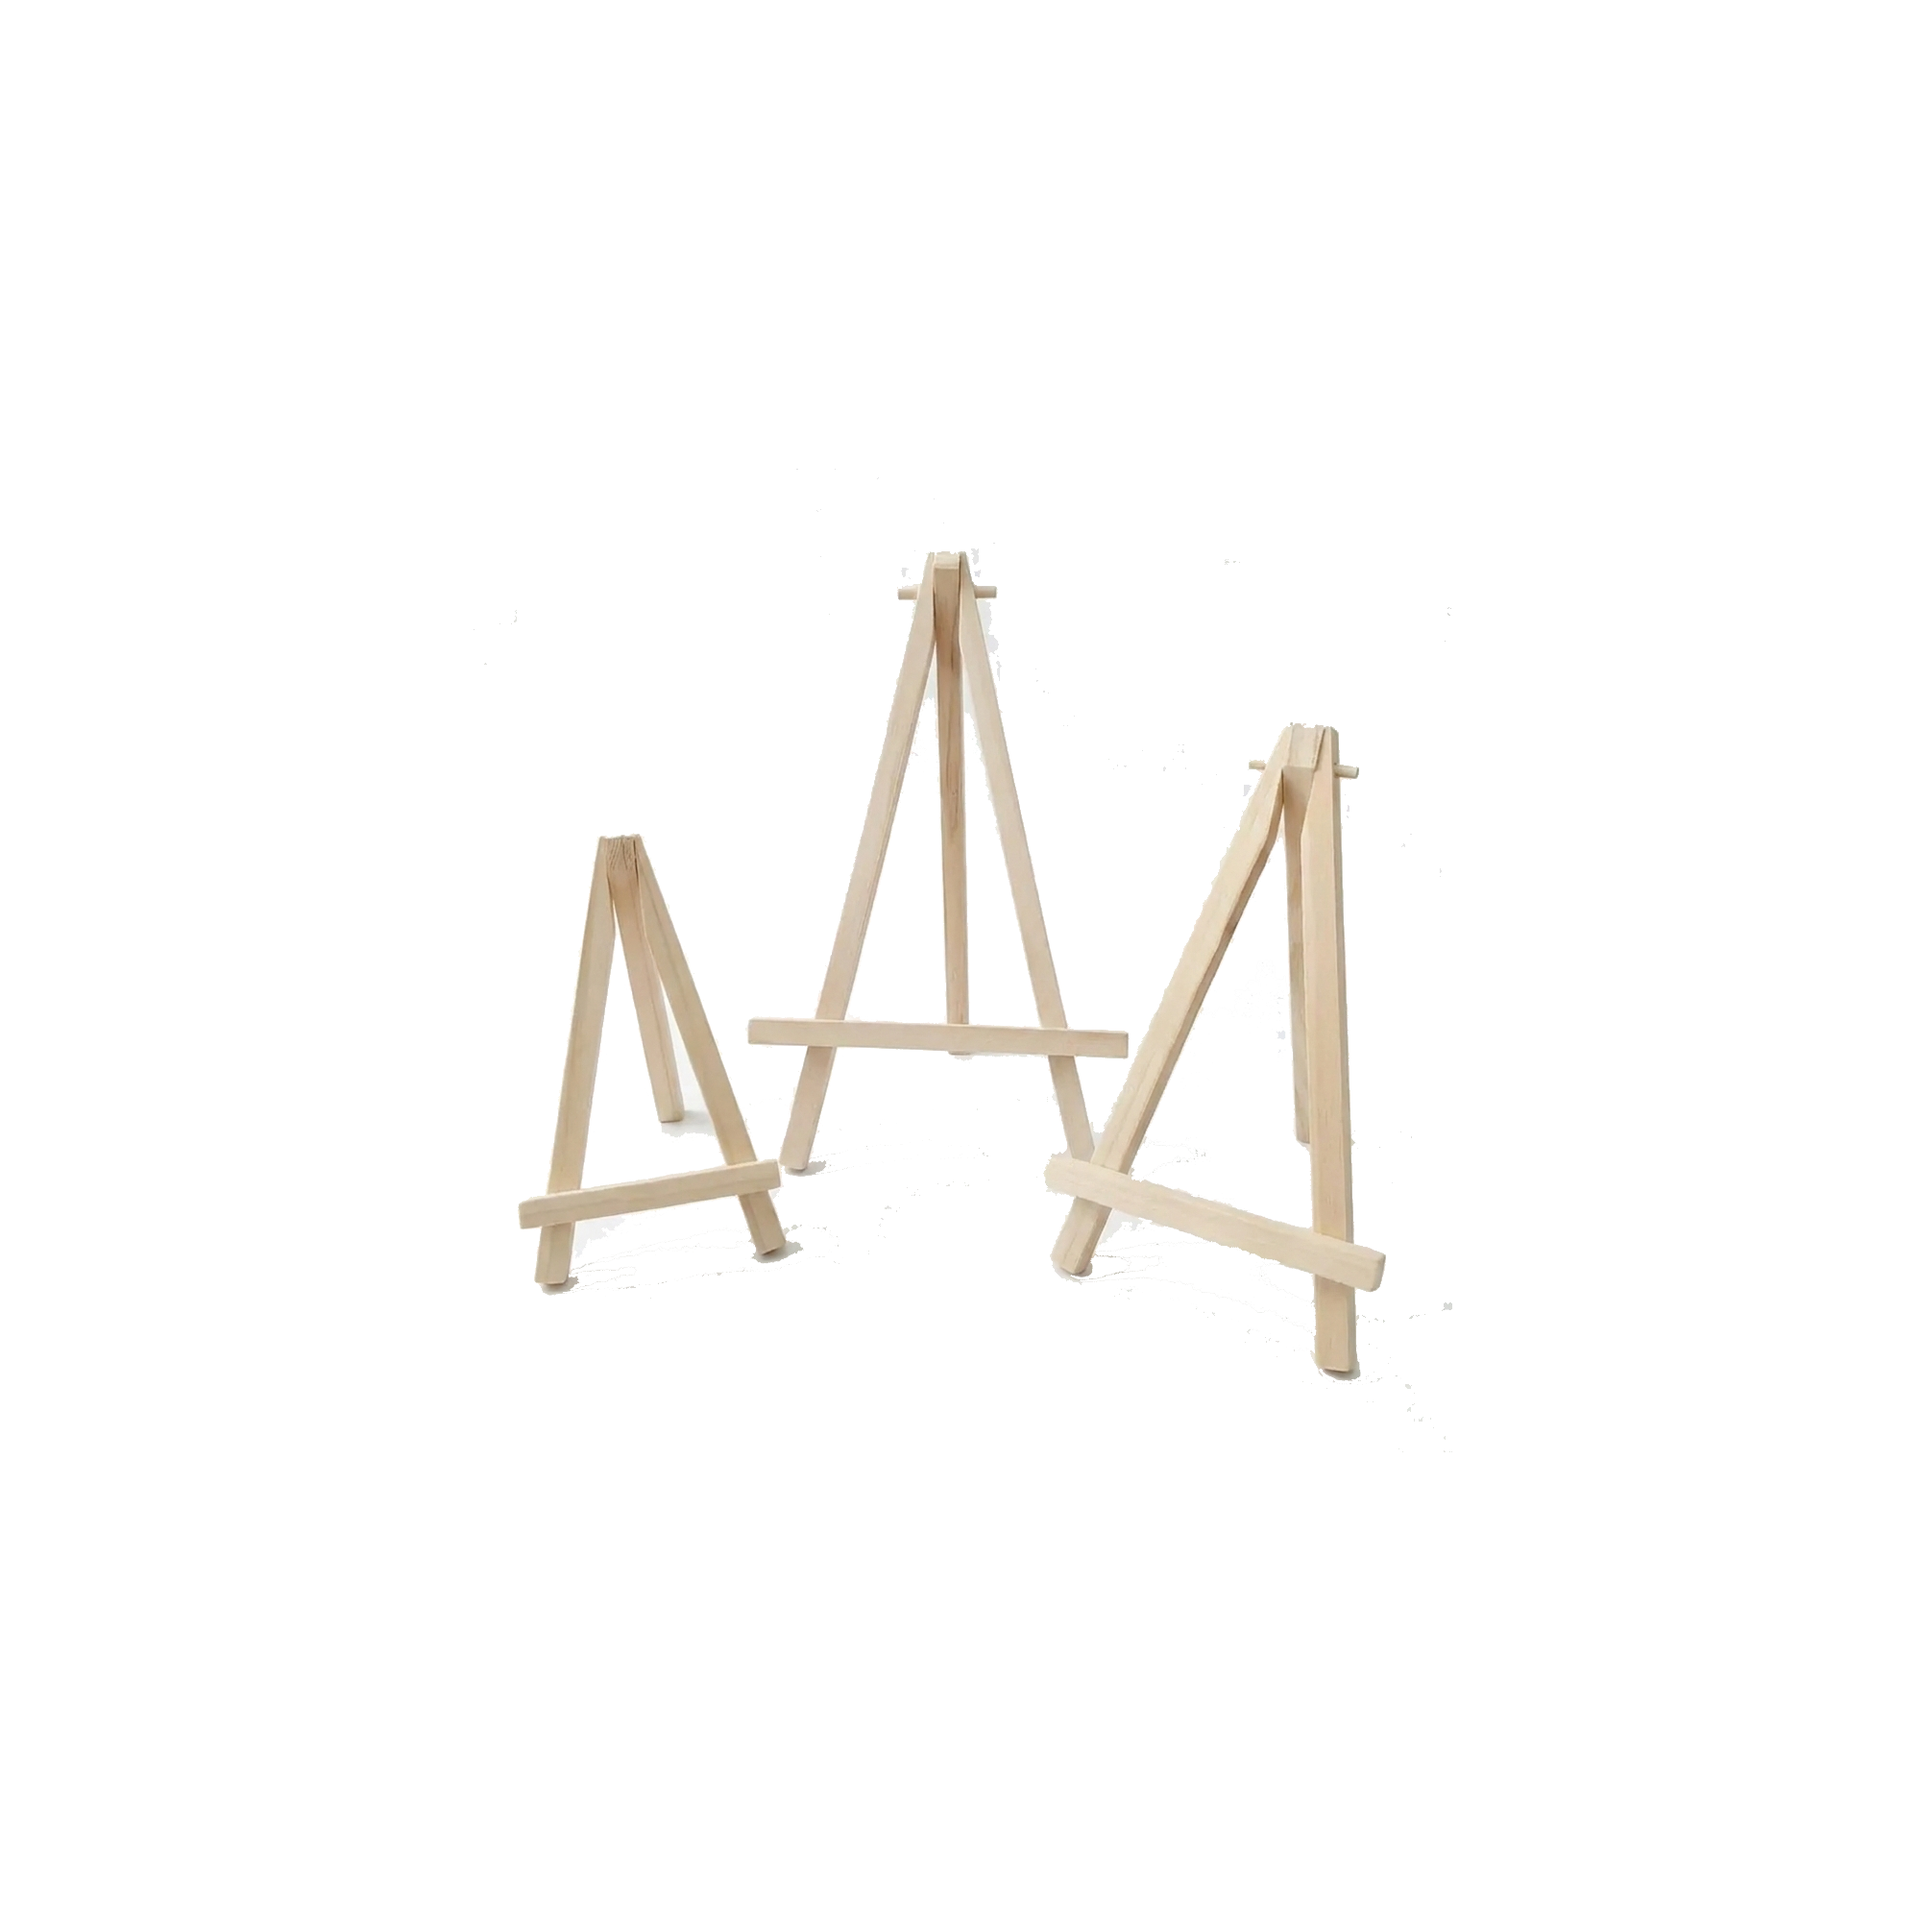
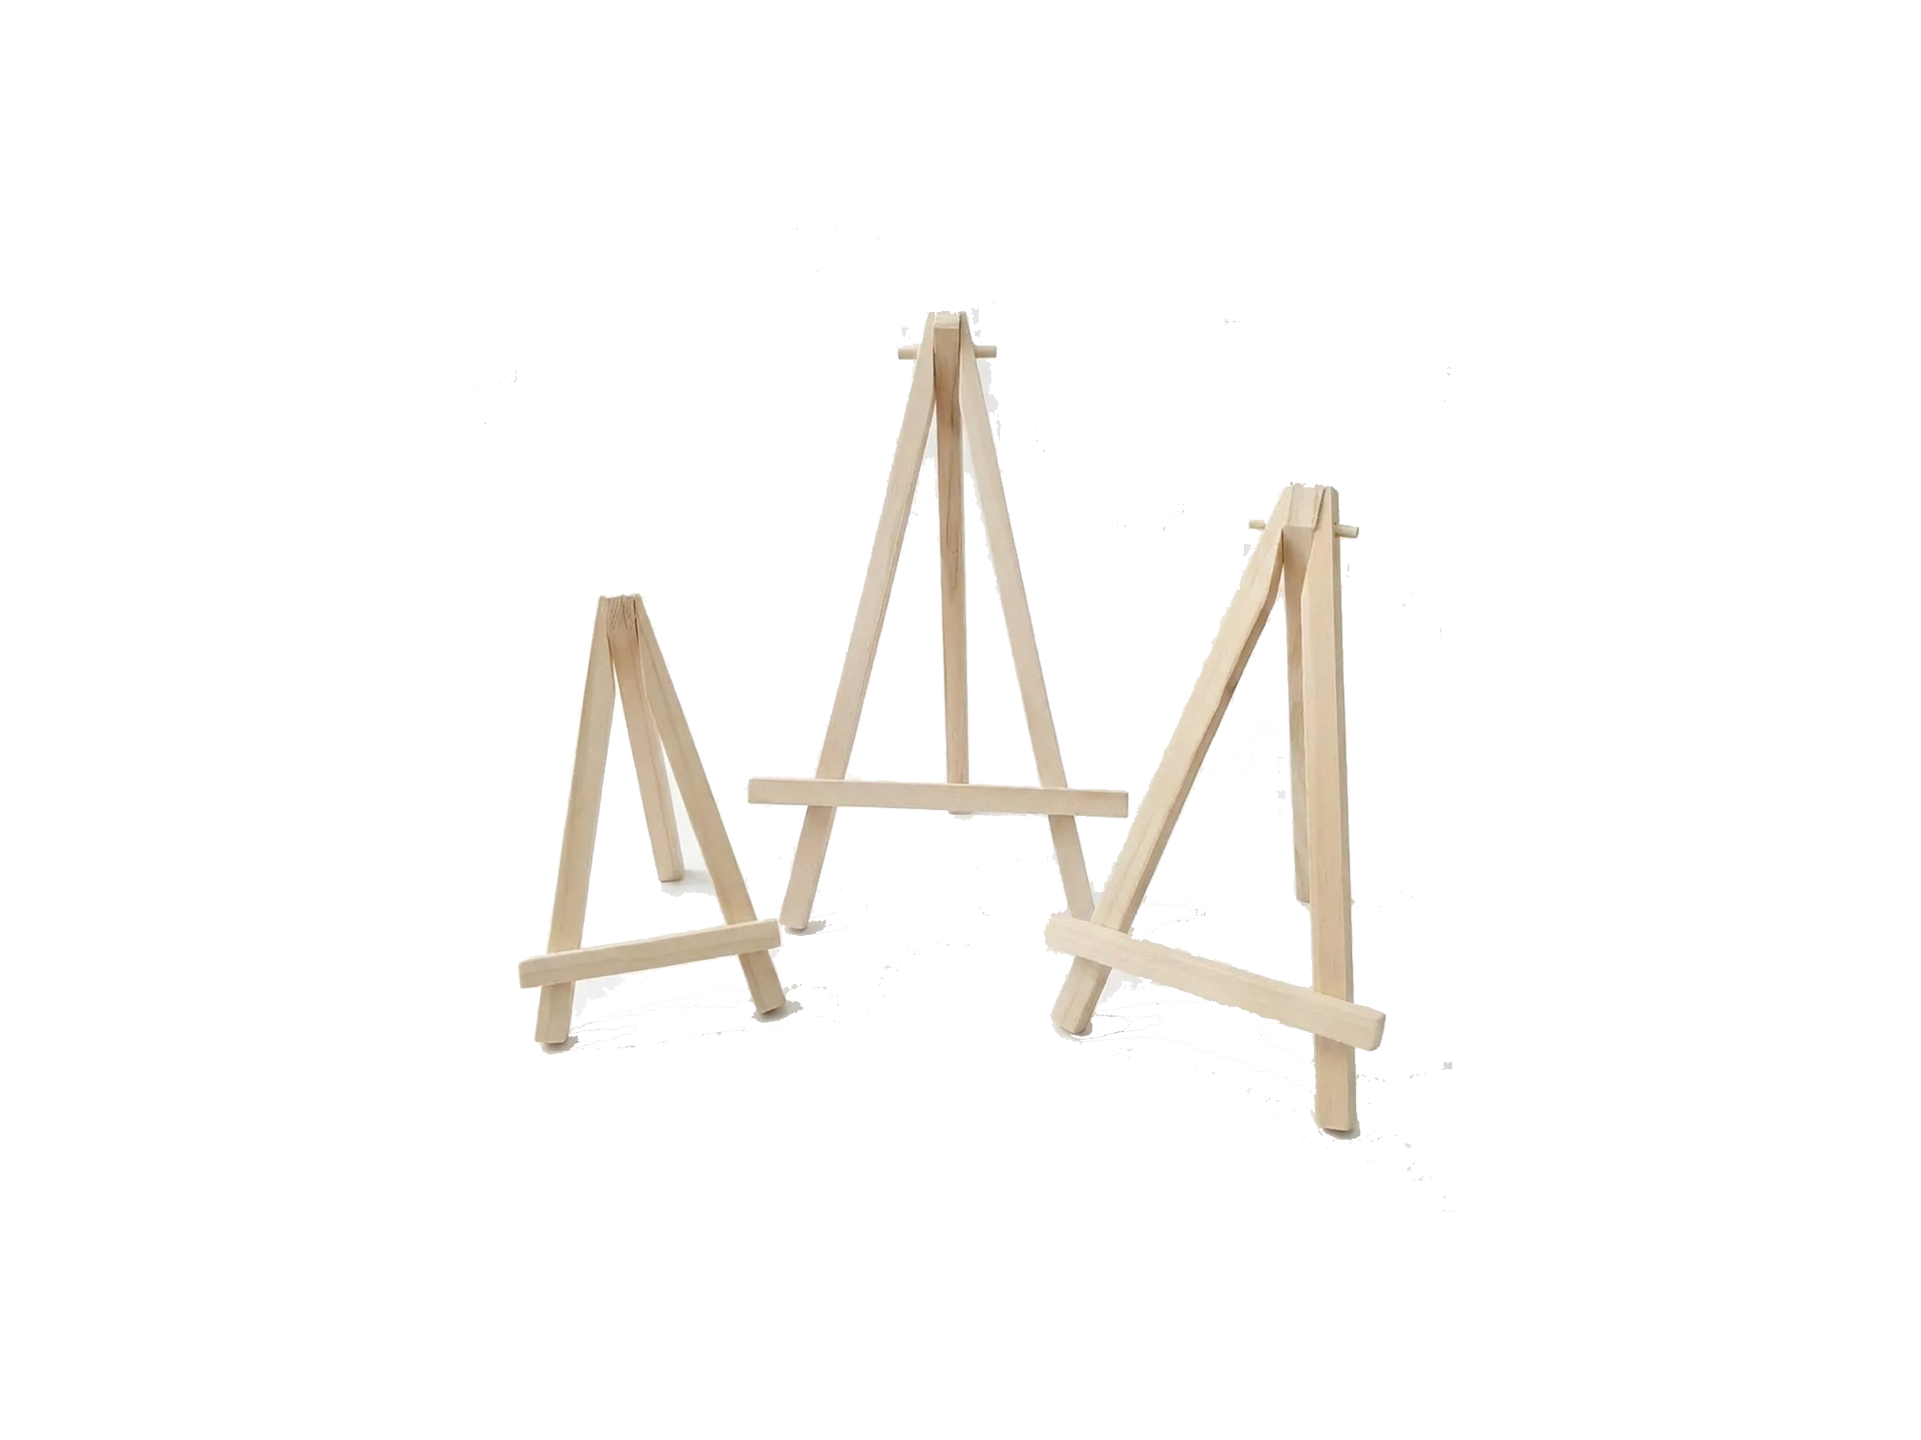
Imagenes pasadas por photoshop para mejorar escalado en celular

diff --git a/frontend/src/pages/RecuerdosDetalle.jsx b/frontend/src/pages/RecuerdosDetalle.jsx
@@ -581,7 +581,7 @@ const RecuerdoDetalle = () => {
                     <FacebookIcon 
                       size={50} 
                       round 
-                      className="shadow-lg hover:shadow-xl transition-all duration-300 hover:scale-105"
+                      className="drop-shadow-[0_6px_10px_rgba(0,0,0,0.15)] transition-all duration-300 hover:scale-110"
                     />
                     <span className="text-xs mt-2 text-gray-600 font-medium">Facebook</span>
                   </FacebookShareButton>
@@ -598,7 +598,7 @@ const RecuerdoDetalle = () => {
                     <TwitterIcon 
                       size={50} 
                       round 
-                      className="shadow-lg hover:shadow-xl transition-all duration-300 hover:scale-105"
+                      className="drop-shadow-[0_6px_10px_rgba(0,0,0,0.15)] transition-all duration-300 hover:scale-110"
                     />
                     <span className="text-xs mt-2 text-gray-600 font-medium">Twitter</span>
                   </TwitterShareButton>
@@ -615,7 +615,7 @@ const RecuerdoDetalle = () => {
                     <WhatsappIcon 
                       size={50} 
                       round 
-                      className="shadow-lg hover:shadow-xl transition-all duration-300 hover:scale-105"
+                      className="drop-shadow-[0_6px_10px_rgba(0,0,0,0.15)] transition-all duration-300 hover:scale-110"
                     />
                     <span className="text-xs mt-2 text-gray-600 font-medium">WhatsApp</span>
                   </WhatsappShareButton>
@@ -631,7 +631,7 @@ const RecuerdoDetalle = () => {
                     <TelegramIcon 
                       size={50} 
                       round 
-                      className="shadow-lg hover:shadow-xl transition-all duration-300 hover:scale-105"
+                      className="drop-shadow-[0_6px_10px_rgba(0,0,0,0.15)] transition-all duration-300 hover:scale-110"
                     />
                     <span className="text-xs mt-2 text-gray-600 font-medium">Telegram</span>
                   </TelegramShareButton>

diff --git a/frontend/src/pages/Productos.jsx b/frontend/src/pages/Productos.jsx
@@ -7,8 +7,8 @@ import capitoliox25 from '../assets/capitoliox25.jpg'
 import acrilicosnormales from '../assets/AcrilicosNormales.jpg'
 import acrilicosfluo from '../assets/AcrilicosFluo.png'
 import caballeteportatil from '../assets/CaballetePortatil.png'
-import kitparadise from '../assets/KitParadise.jpg'
-import giottox12 from '../assets/LapicesGiotto12.png'
+import kitparadise from '../assets/KitParadise.png'
+import giottox12 from '../assets/LapicesGiotto12.jpg'
 import gomafilgo from '../assets/GomaFilgo.png'
 import lapizfilgo from '../assets/LapizFilgo.png'
 import LapizNegroRobertColor from '../assets/LapizNegroRobertColor.png'
@@ -253,7 +253,6 @@ const Productos = () => {
                         }}
                       />
                     </div>
-                  
                   <div className="p-6">
                     <div className="flex items-start justify-between mb-3">
                       <h3 className="text-xl font-bold text-gray-800 leading-tight">
